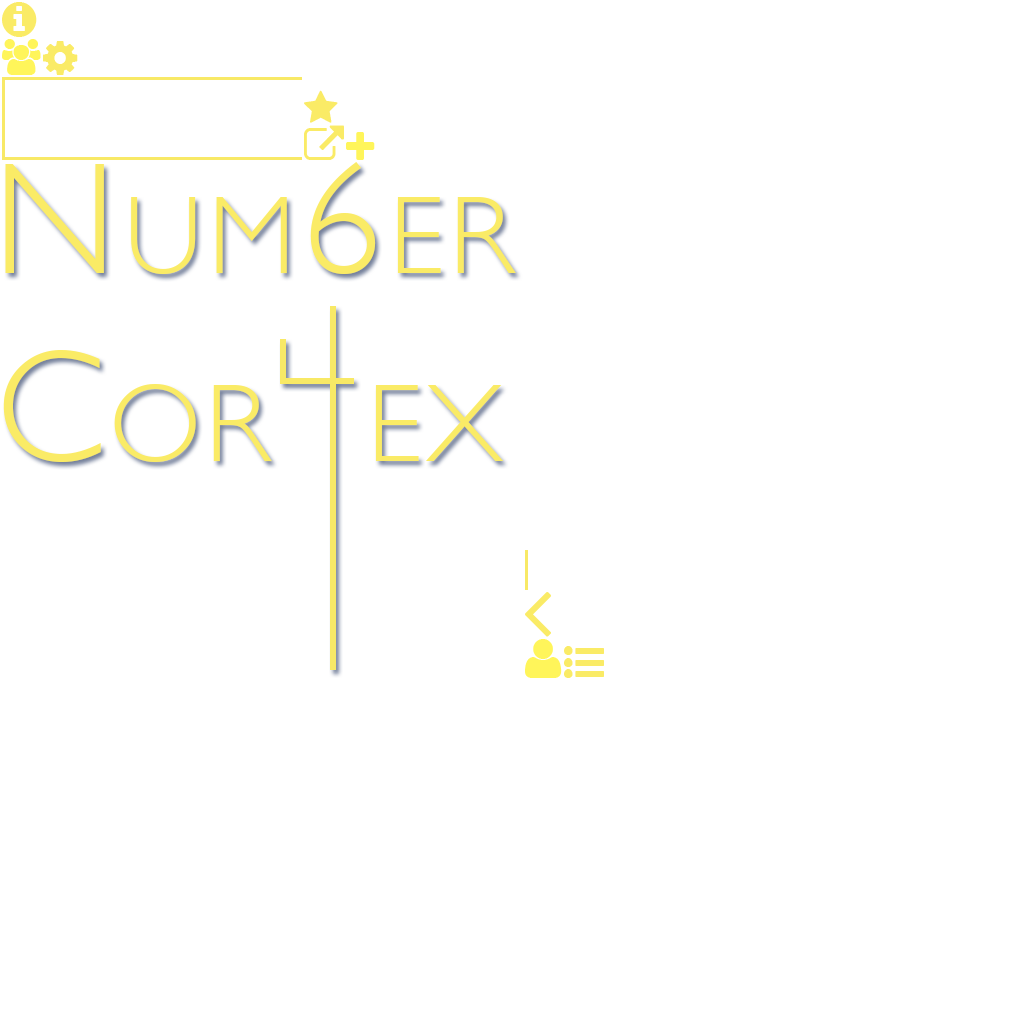
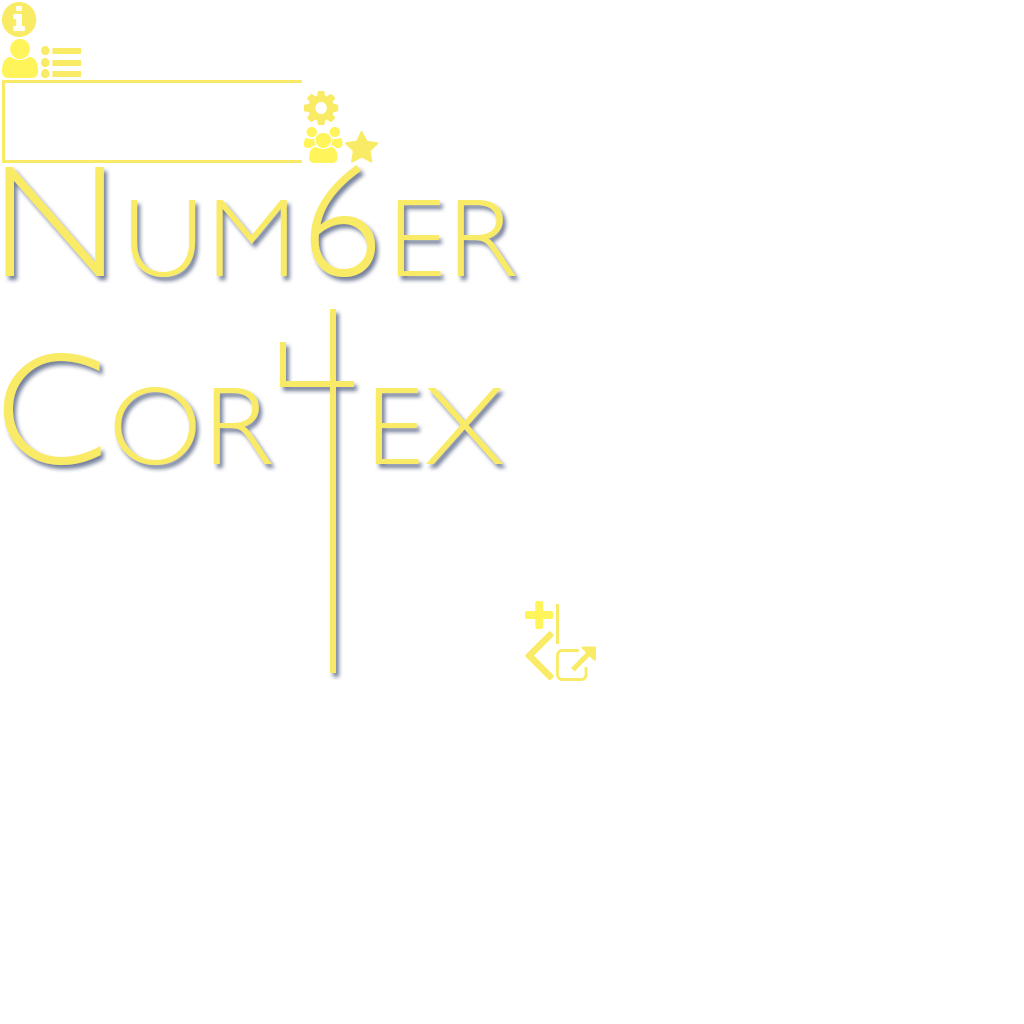
Adjust back bottom navigation
Enlarge size
Adjust padding and positioning
Create its own class: BottomNavigation

diff --git a/core/src/com/numbercortex/view/GameScreen.java b/core/src/com/numbercortex/view/GameScreen.java
@@ -2,10 +2,57 @@ package com.numbercortex.view;
 
 import com.badlogic.gdx.Game;
 import com.badlogic.gdx.Screen;
+import com.badlogic.gdx.graphics.g2d.TextureRegion;
+import com.badlogic.gdx.scenes.scene2d.Group;
+import com.badlogic.gdx.scenes.scene2d.InputEvent;
+import com.badlogic.gdx.scenes.scene2d.ui.Image;
+import com.badlogic.gdx.scenes.scene2d.ui.Label;
+import com.badlogic.gdx.scenes.scene2d.ui.Table;
 
 public class GameScreen implements Screen {
 	boolean backKey;
 	Game game;
+	
+	class BackBottomNavigation extends Group {
+		BackBottomNavigation(String previousScreenName, final GameScreen previousScreen) {
+			addContent(previousScreenName);
+			addArmature(previousScreen);
+		}	
+		private void addContent(String previousScreenName) {
+			Table navigationTable = new Table();
+			addIcon(navigationTable);
+			addText(previousScreenName, navigationTable);
+			navigationTable.setBounds(0, 0, 220, 100);
+			this.addActor(navigationTable);
+		}
+		private void addIcon(Table table) {
+			TextureRegion buttonIconTexture = Assets.homeSkin.getRegion("left_arrow");
+			Image buttonIcon = new Image(buttonIconTexture);
+			table.add(buttonIcon).center().pad(6).padBottom(10);
+		}
+		private void addText(String text, Table table) {
+			Label.LabelStyle labelStyle = new Label.LabelStyle();
+			labelStyle.font = FontGenerator.getGillSans50();
+			labelStyle.fontColor = Launch.BRIGHT_YELLOW;
+			Label buttonLabel = new Label(text, labelStyle);
+			table.add(buttonLabel).left().pad(6).padBottom(10);
+		}
+		private void addArmature(final GameScreen previousScreen) {
+			Image buttonBackground = new Image();
+			buttonBackground.setBounds(0, 0, 220, 100);
+			buttonBackground.addListener(new ClickListenerWithSound() {
+				@Override
+				public void clicked(InputEvent event, float x, float y) {
+					game.setScreen(previousScreen);
+				}
+			});
+			this.addActor(buttonBackground);
+		}
+	}
+	
+	class ForwardBottomNavigation extends Group {
+		
+	}
 
 	GameScreen(Game game) {
 		this.game = game;

diff --git a/core/src/com/numbercortex/view/LevelsScreen.java b/core/src/com/numbercortex/view/LevelsScreen.java
@@ -164,28 +164,9 @@ class LevelsScreen extends GameScreen {
 		return levelButton;
 	}
 	private void addBackButton() {
-		Table navigationTable = new Table();
-		addIcon(navigationTable);
-		addText(navigationTable);
-		navigationTable.addListener(new ClickListenerWithSound() {
-			@Override
-			public void clicked(InputEvent event, float x, float y) {
-				game.setScreen(ScreenTracker.titleScreen);
-			}
-		});
-		table.add(navigationTable).padTop(14).padBottom(20);
-	}
-	private void addIcon(Table table) {
-		TextureRegion buttonIconTexture = Assets.homeSkin.getRegion("left_arrow");
-		Image buttonIcon = new Image(buttonIconTexture);
-		table.add(buttonIcon).center().pad(6);
-	}
-	private void addText(Table table) {
-		Label.LabelStyle labelStyle = new Label.LabelStyle();
-		labelStyle.font = FontGenerator.getGillSans40();
-		labelStyle.fontColor = Launch.BRIGHT_YELLOW;
-		Label buttonLabel = new Label("Home", labelStyle);
-		table.add(buttonLabel).left().pad(6);
+		BackBottomNavigation backBottomNavigation = new BackBottomNavigation("Home", ScreenTracker.titleScreen);
+		backBottomNavigation.setSize(220, 100);
+		table.add(backBottomNavigation).colspan(2).left().padLeft(6).padTop(14).padBottom(16);
 	}
 	private void addScrollPane() {
 		ScrollPane pane = new ScrollPane(table);

diff --git a/core/src/com/numbercortex/view/MoreScreen.java b/core/src/com/numbercortex/view/MoreScreen.java
@@ -42,31 +42,9 @@ public class MoreScreen extends HomeScreen {
 	}
 	@Override
 	void buildBottomNavigation(Stage stage) {
-		Table navigationTable = new Table();
-		addIcon(navigationTable);
-		addText(navigationTable);
-		navigationTable.setBounds(0, 0, 220, 100);
-		navigationTable.addListener(new ClickListenerWithSound() {
-			@Override
-			public void clicked(InputEvent event, float x, float y) {
-				game.setScreen(ScreenTracker.titleScreen);
-			}
-		});
-		stage.addActor(navigationTable);
+		BackBottomNavigation backBottomNavigation = new BackBottomNavigation("Home", ScreenTracker.titleScreen);
+		stage.addActor(backBottomNavigation);
 	}
-	private void addIcon(Table table) {
-		TextureRegion buttonIconTexture = Assets.homeSkin.getRegion("left_arrow");
-		Image buttonIcon = new Image(buttonIconTexture);
-		table.add(buttonIcon).center().pad(6);
-	}
-	private void addText(Table table) {
-		Label.LabelStyle labelStyle = new Label.LabelStyle();
-		labelStyle.font = FontGenerator.getGillSans40();
-		labelStyle.fontColor = Launch.BRIGHT_YELLOW;
-		Label buttonLabel = new Label("Home", labelStyle);
-		table.add(buttonLabel).left().pad(6);
-	}
-
 	@Override
 	void handleBackKey() {
 		if (Gdx.input.isKeyPressed(Input.Keys.BACK)) {

diff --git a/core/src/com/numbercortex/view/CreditsScreen.java b/core/src/com/numbercortex/view/CreditsScreen.java
@@ -77,29 +77,8 @@ public class CreditsScreen extends GameScreen {
 		return label;
 	}
 	private void buildBottomNavigation(Stage stage) {
-		Table navigationTable = new Table();
-		addIcon(navigationTable);
-		addText(navigationTable);
-		navigationTable.setBounds(0, 0, 220, 100);
-		navigationTable.addListener(new ClickListenerWithSound() {
-			@Override
-			public void clicked(InputEvent event, float x, float y) {
-				game.setScreen(ScreenTracker.moreScreen);
-			}
-		});
-		stage.addActor(navigationTable);
-	}
-	private void addIcon(Table table) {
-		TextureRegion buttonIconTexture = Assets.homeSkin.getRegion("left_arrow");
-		Image buttonIcon = new Image(buttonIconTexture);
-		table.add(buttonIcon).center().pad(6);
-	}
-	private void addText(Table table) {
-		Label.LabelStyle labelStyle = new Label.LabelStyle();
-		labelStyle.font = FontGenerator.getGillSans40();
-		labelStyle.fontColor = Launch.BRIGHT_YELLOW;
-		Label buttonLabel = new Label("More", labelStyle);
-		table.add(buttonLabel).left().pad(6);
+		BackBottomNavigation backBottomNavigation = new BackBottomNavigation("More", ScreenTracker.moreScreen);
+		stage.addActor(backBottomNavigation);
 	}
 
 	@Override
